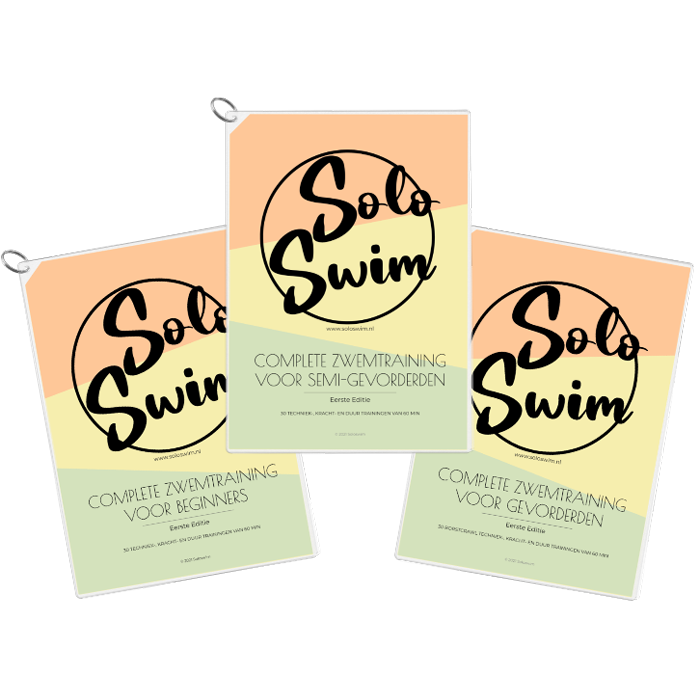
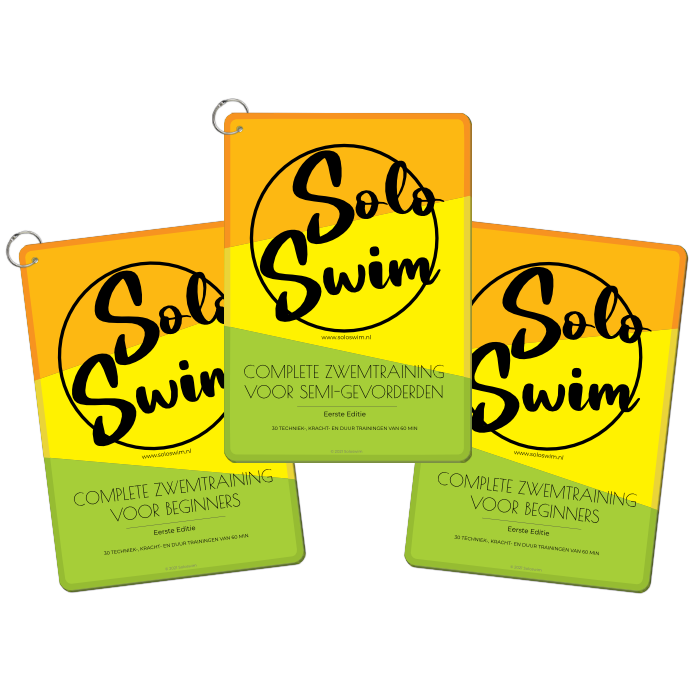
update main product images
todo: update secondary images and also the images in the cart folders. Also update images in other places of the site.

diff --git a/pages/producten/index.js b/pages/producten/index.js
@@ -103,61 +103,6 @@ function index({ allProductsData }) {
                     </li>
                   )
                 )}
-                {/* COMING SOON PRODUCTEN */}
-                <li
-                  key="swimfit"
-                  className="rounded-2xl ring-4 ring-soloswim-pink py-5"
-                >
-                  <div>
-                    <div className="mb-6 py-1 text-center">
-                      <p className="text-navy-light1 font-lexend font-extrabold text-3xl">
-                        Coming soon!
-                      </p>
-                    </div>
-                    <div className="text-center">
-                      <div className="w-5/6 mx-auto">
-                        <Image
-                          src="/images/zwemschemas/sf1/1.png"
-                          width={400}
-                          height={400}
-                          alt="Swimfit voor recreanten"
-                        ></Image>
-                      </div>
-                      <div className="text-grey-dark1 px-8 mx-auto mt-8">
-                        <p className="font-bold uppercase mb-1">
-                          Swimfit voor recreanten
-                        </p>
-                      </div>
-                    </div>
-                  </div>
-                </li>
-                <li
-                  key="slagenmix"
-                  className="rounded-2xl ring-4 ring-soloswim-purple py-5"
-                >
-                  <div>
-                    <div className="mb-6 py-1 text-center">
-                      <p className="text-navy-light1 font-lexend font-extrabold text-3xl">
-                        Coming soon!
-                      </p>
-                    </div>
-                    <div className="text-center">
-                      <div className="w-5/6 mx-auto">
-                        <Image
-                          src="/images/zwemschemas/sm1/1.png"
-                          width={400}
-                          height={400}
-                          alt="Slagenmix zwemtraining"
-                        ></Image>
-                      </div>
-                      <div className="text-grey-dark1 px-8 mx-auto mt-8">
-                        <p className="font-bold uppercase mb-1">
-                          Slagenmix zwemtraining
-                        </p>
-                      </div>
-                    </div>
-                  </div>
-                </li>
               </ul>
             </div>
           </div>

diff --git a/pages/index.js b/pages/index.js
@@ -284,8 +284,7 @@ export default function Home() {
                         Verschillende thema’s
                       </h4>
                       <p className="text-navy-light1 text-tiny my-2 lg:text-base">
-                        Van techniek-, kracht- of duur trainingen tot swimfit
-                        (coming soon) voor ontspanning
+                        Van techniek-, kracht- tot duur trainingen.
                       </p>
                     </div>
                   </li>
@@ -831,13 +830,13 @@ export default function Home() {
                     </p>
                     <p className="mt-4">
                       We maken al onze bundels zelf met veel zorg; van het
-                      ontwikkelen van de trainingen tot het uitprinten en
-                      plastificeren van de bundels. Made in the Netherlands,
-                      daar zijn we trots op! Houd ons in de gaten want we zijn
-                      continu bezig met het uitbreiden van onze zwemschema’s. Zo
-                      komt er binnenkort een bundel voor recreanten (swimfit) en
-                      een bundel met verschillende slagen uit. Voor ieder wat
-                      wils, dat vinden we belangrijk!
+                      ontwikkelen van de trainingen tot het bundelen van de
+                      individuele waterdichte zwemschema's. Made in the
+                      Netherlands, daar zijn we trots op! Houd ons in de gaten
+                      want we zijn continu bezig met het uitbreiden van onze
+                      zwemschema’s. Zo komt er binnenkort een bundel voor
+                      recreanten (swimfit) en een bundel met verschillende
+                      slagen uit. Voor ieder wat wils, dat vinden we belangrijk!
                     </p>
                   </div>
                   <div className="lg:inline-block hidden my-6">
